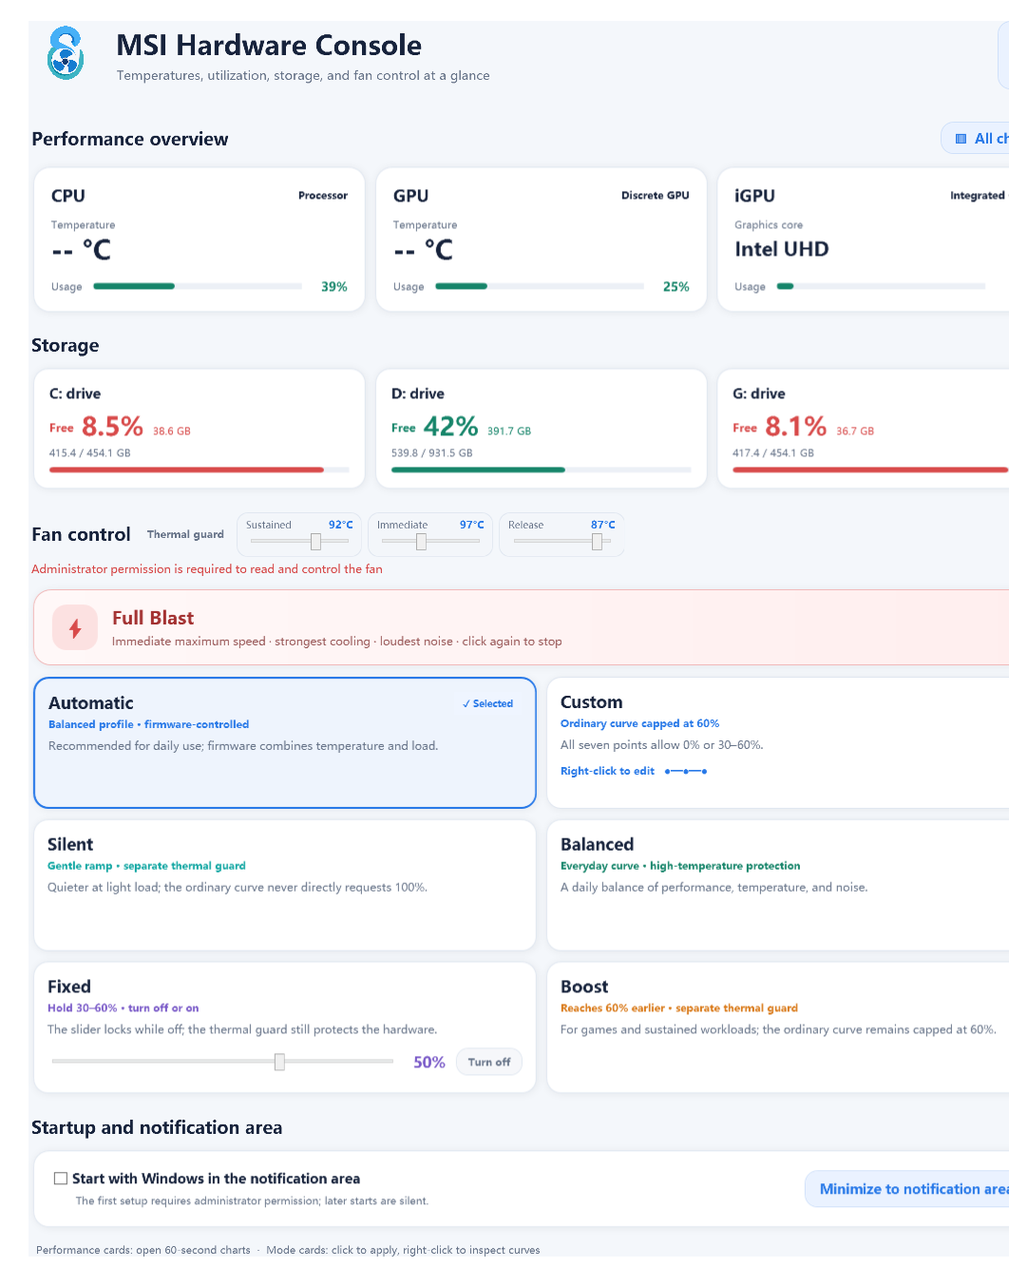
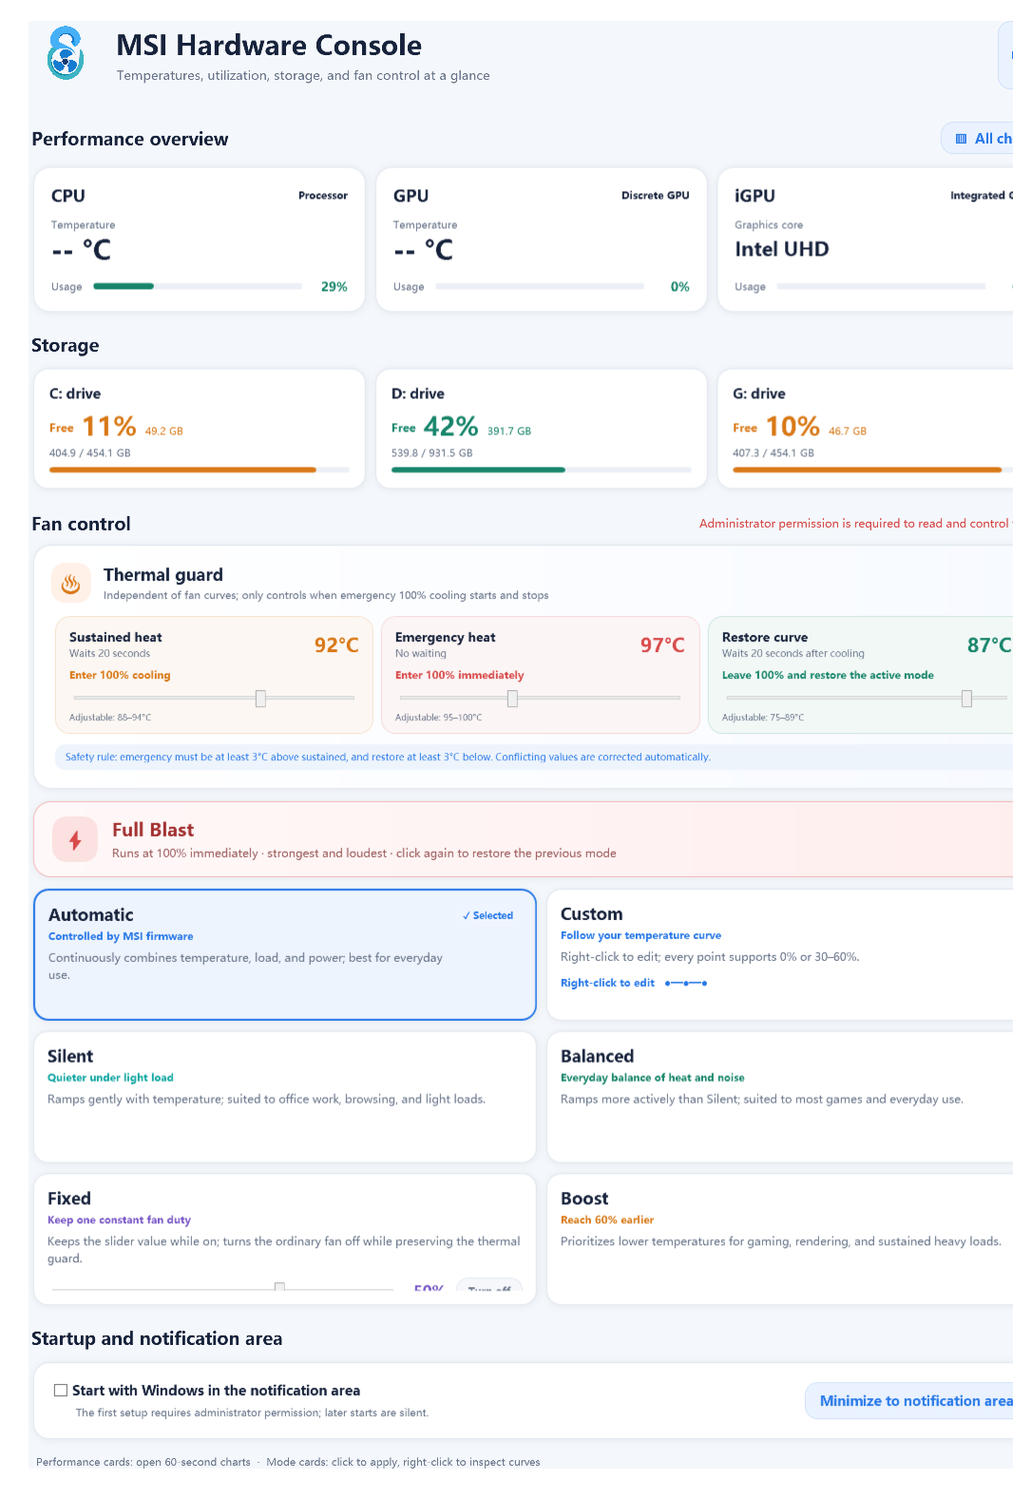
Redesign thermal guard panel

diff --git a/src/MainWindow.cs b/src/MainWindow.cs
@@ -206,6 +206,7 @@ namespace MsiHardwareConsole
             root.Children.Add(BuildStorageGrid());
             fanHeaderElement = BuildFanHeader();
             root.Children.Add(fanHeaderElement);
+            root.Children.Add(BuildProtectionSettingsCard());
             root.Children.Add(BuildBlastCard());
             root.Children.Add(BuildModeGrid());
             root.Children.Add(SectionHeader(T("Startup and notification area", "启动与托盘"), null));
@@ -483,66 +484,95 @@ namespace MsiHardwareConsole
         private FrameworkElement BuildFanHeader()
         {
             var grid = new Grid { Margin = new Thickness(3, 20, 3, 8) };
-            grid.ColumnDefinitions.Add(new ColumnDefinition { Width = GridLength.Auto });
             grid.ColumnDefinitions.Add(new ColumnDefinition { Width = new GridLength(1, GridUnitType.Star) });
-            grid.RowDefinitions.Add(new RowDefinition { Height = GridLength.Auto });
-            grid.RowDefinitions.Add(new RowDefinition { Height = GridLength.Auto });
-            grid.Children.Add(new TextBlock { Text = T("Fan control", "风扇控制"), FontSize = 18, FontWeight = FontWeights.SemiBold, Foreground = TextBrush, VerticalAlignment = VerticalAlignment.Center });
-            Grid protectionSettings = BuildProtectionTemperatureSettings();
-            Grid.SetColumn(protectionSettings, 1);
-            grid.Children.Add(protectionSettings);
-            fanStatus = new TextBlock { Text = T("Connecting to fan…", "正在连接风扇…"), FontSize = 12, Foreground = MutedBrush, HorizontalAlignment = HorizontalAlignment.Left, Margin = new Thickness(0, 5, 0, 0) };
-            Grid.SetRow(fanStatus, 1);
-            Grid.SetColumnSpan(fanStatus, 2);
+            grid.ColumnDefinitions.Add(new ColumnDefinition { Width = GridLength.Auto });
+            grid.Children.Add(new TextBlock { Text = T("Fan control", "风扇控制"), FontSize = 18, FontWeight = FontWeights.SemiBold, Foreground = TextBrush });
+            fanStatus = new TextBlock { Text = T("Connecting to fan…", "正在连接风扇…"), FontSize = 12, Foreground = MutedBrush, VerticalAlignment = VerticalAlignment.Center };
+            Grid.SetColumn(fanStatus, 1);
             grid.Children.Add(fanStatus);
             return grid;
         }
 
-        private Grid BuildProtectionTemperatureSettings()
+        private UIElement BuildProtectionSettingsCard()
         {
-            var host = new Grid { Margin = new Thickness(18, 0, 18, 0), VerticalAlignment = VerticalAlignment.Center };
-            host.ColumnDefinitions.Add(new ColumnDefinition { Width = GridLength.Auto });
-            host.ColumnDefinitions.Add(new ColumnDefinition { Width = new GridLength(1, GridUnitType.Star) });
-            host.Children.Add(new TextBlock
+            var card = Card(new Thickness(18), 18);
+            card.Margin = new Thickness(5, 3, 5, 8);
+            card.Background = new LinearGradientBrush(Color.FromRgb(255, 255, 255), Color.FromRgb(247, 250, 255), 0);
+            var root = new StackPanel();
+            var heading = new Grid();
+            heading.ColumnDefinitions.Add(new ColumnDefinition { Width = GridLength.Auto });
+            heading.ColumnDefinitions.Add(new ColumnDefinition { Width = new GridLength(1, GridUnitType.Star) });
+            var icon = new Border
             {
-                Text = T("Thermal guard", "高温保护"),
+                Width = 42,
+                Height = 42,
+                CornerRadius = new CornerRadius(14),
+                Background = MakeBrush("#FFF0E8"),
+                Margin = new Thickness(0, 0, 13, 0),
+                Child = new TextBlock { Text = "♨", FontSize = 21, Foreground = WarningBrush, HorizontalAlignment = HorizontalAlignment.Center, VerticalAlignment = VerticalAlignment.Center }
+            };
+            heading.Children.Add(icon);
+            var headingText = new StackPanel { VerticalAlignment = VerticalAlignment.Center };
+            headingText.Children.Add(new TextBlock { Text = T("Thermal guard", "高温保护"), FontSize = 17, FontWeight = FontWeights.SemiBold, Foreground = TextBrush });
+            headingText.Children.Add(new TextBlock
+            {
+                Text = T("Independent of fan curves; only controls when emergency 100% cooling starts and stops", "独立于风扇曲线，只决定何时进入或退出 100% 紧急散热"),
                 FontSize = 11,
-                FontWeight = FontWeights.SemiBold,
                 Foreground = MutedBrush,
-                VerticalAlignment = VerticalAlignment.Center,
-                Margin = new Thickness(0, 0, 9, 0)
+                Margin = new Thickness(0, 3, 0, 0)
             });
+            Grid.SetColumn(headingText, 1);
+            heading.Children.Add(headingText);
+            root.Children.Add(heading);
 
-            var controls = new StackPanel { Orientation = Orientation.Horizontal, HorizontalAlignment = HorizontalAlignment.Left };
+            var controls = new UniformGrid { Columns = 3, Margin = new Thickness(0, 14, 0, 0) };
             controls.Children.Add(BuildProtectionTemperatureControl(
-                T("Sustained", "持续开启"), 88, 94, settings.SustainedFullBlastTemperature,
+                T("Sustained heat", "持续高温"), T("Waits 20 seconds", "达到后等待 20 秒"), T("Enter 100% cooling", "进入 100% 散热"), T("Adjustable: 88–94°C", "可调范围 88–94°C"),
+                88, 94, settings.SustainedFullBlastTemperature, WarningBrush,
                 out sustainedProtectionSlider, out sustainedProtectionValue,
                 T("Enables 100% after this temperature is sustained for 20 seconds", "达到该温度并持续 20 秒后开启 100%")));
             controls.Children.Add(BuildProtectionTemperatureControl(
-                T("Immediate", "立即开启"), 95, 100, settings.EmergencyFullBlastTemperature,
+                T("Emergency heat", "紧急高温"), T("No waiting", "达到后无需等待"), T("Enter 100% immediately", "立即进入 100% 散热"), T("Adjustable: 95–100°C", "可调范围 95–100°C"),
+                95, 100, settings.EmergencyFullBlastTemperature, DangerBrush,
                 out emergencyProtectionSlider, out emergencyProtectionValue,
                 T("Enables 100% immediately at this temperature", "达到该温度后立即开启 100%")));
             controls.Children.Add(BuildProtectionTemperatureControl(
-                T("Release", "退出保护"), 75, 89, settings.FullBlastReleaseTemperature,
+                T("Restore curve", "恢复曲线"), T("Waits 20 seconds after cooling", "降温后等待 20 秒"), T("Leave 100% and restore the active mode", "退出 100% 并恢复当前模式"), T("Adjustable: 75–89°C", "可调范围 75–89°C"),
+                75, 89, settings.FullBlastReleaseTemperature, GoodBrush,
                 out releaseProtectionSlider, out releaseProtectionValue,
                 T("Restores the selected curve after staying below this temperature for 20 seconds", "降到该温度并持续 20 秒后恢复所选曲线")));
-            Grid.SetColumn(controls, 1);
-            host.Children.Add(controls);
+            root.Children.Add(controls);
+            var safetyNote = new Border
+            {
+                Background = MakeBrush("#EEF4FC"),
+                CornerRadius = new CornerRadius(10),
+                Padding = new Thickness(11, 7, 11, 7),
+                Margin = new Thickness(4, 10, 4, 0),
+                Child = new TextBlock
+                {
+                    Text = T(
+                        "Safety rule: emergency must be at least 3°C above sustained, and restore at least 3°C below. Conflicting values are corrected automatically.",
+                        "安全约束：紧急温度至少比持续温度高 3°C；恢复温度至少低 3°C。冲突的设置会自动修正。"),
+                    FontSize = 10,
+                    Foreground = AccentBrush
+                }
+            };
+            root.Children.Add(safetyNote);
             UpdateProtectionTemperatureLabels();
-            return host;
+            card.Child = root;
+            return card;
         }
 
-        private Border BuildProtectionTemperatureControl(string label, int minimum, int maximum, int value,
-            out Slider slider, out TextBlock valueText, string toolTip)
+        private Border BuildProtectionTemperatureControl(string title, string timing, string action, string range,
+            int minimum, int maximum, int value, Brush accent, out Slider slider, out TextBlock valueText, string toolTip)
         {
             var card = new Border
             {
-                Width = 132,
-                Margin = new Thickness(3, 0, 3, 0),
-                Padding = new Thickness(9, 5, 9, 5),
-                CornerRadius = new CornerRadius(11),
-                Background = MakeBrush("#F3F6FA"),
-                BorderBrush = CardBorderBrush,
+                Margin = new Thickness(4, 0, 4, 0),
+                Padding = new Thickness(14, 12, 14, 11),
+                CornerRadius = new CornerRadius(15),
+                Background = MakeTint(accent, 0.055),
+                BorderBrush = MakeTint(accent, 0.22),
                 BorderThickness = new Thickness(1),
                 ToolTip = toolTip
             };
@@ -550,11 +580,15 @@ namespace MsiHardwareConsole
             var heading = new Grid();
             heading.ColumnDefinitions.Add(new ColumnDefinition { Width = new GridLength(1, GridUnitType.Star) });
             heading.ColumnDefinitions.Add(new ColumnDefinition { Width = GridLength.Auto });
-            heading.Children.Add(new TextBlock { Text = label, FontSize = 10, Foreground = MutedBrush, VerticalAlignment = VerticalAlignment.Center });
-            valueText = new TextBlock { FontSize = 11, FontWeight = FontWeights.SemiBold, Foreground = AccentBrush, VerticalAlignment = VerticalAlignment.Center };
+            var labels = new StackPanel();
+            labels.Children.Add(new TextBlock { Text = title, FontSize = 13, FontWeight = FontWeights.SemiBold, Foreground = TextBrush });
+            labels.Children.Add(new TextBlock { Text = timing, FontSize = 10, Foreground = MutedBrush, Margin = new Thickness(0, 2, 0, 0) });
+            heading.Children.Add(labels);
+            valueText = new TextBlock { FontSize = 20, FontWeight = FontWeights.SemiBold, Foreground = accent, VerticalAlignment = VerticalAlignment.Center };
             Grid.SetColumn(valueText, 1);
             heading.Children.Add(valueText);
             content.Children.Add(heading);
+            content.Children.Add(new TextBlock { Text = action, FontSize = 11, Foreground = accent, FontWeight = FontWeights.SemiBold, Margin = new Thickness(0, 8, 0, 0) });
             slider = new Slider
             {
                 Minimum = minimum,
@@ -564,13 +598,14 @@ namespace MsiHardwareConsole
                 SmallChange = 1,
                 LargeChange = 2,
                 IsSnapToTickEnabled = true,
-                Margin = new Thickness(0, 2, 0, 0),
+                Margin = new Thickness(0, 9, 0, 0),
                 Cursor = Cursors.Hand
             };
             slider.ValueChanged += delegate { UpdateProtectionTemperatureLabels(); };
             slider.PreviewMouseLeftButtonUp += delegate { CommitProtectionTemperatureSettings(); };
             slider.KeyUp += delegate { CommitProtectionTemperatureSettings(); };
             content.Children.Add(slider);
+            content.Children.Add(new TextBlock { Text = range, FontSize = 9, Foreground = MutedBrush, Margin = new Thickness(0, 4, 0, 0) });
             card.Child = content;
             return card;
         }
@@ -608,7 +643,7 @@ namespace MsiHardwareConsole
             grid.ColumnDefinitions.Add(new ColumnDefinition());
             for (int i = 0; i < 3; i++) grid.RowDefinitions.Add(new RowDefinition { Height = GridLength.Auto });
 
-            AddModeCard(grid, "Automatic", T("Automatic", "自动"), T("Balanced profile · firmware-controlled", "均衡性能 · 固件自动调速"), T("Recommended for daily use; firmware combines temperature and load.", "日常首选，由固件综合温度与负载调整。"), AccentBrush, 0, 0, null);
+            AddModeCard(grid, "Automatic", T("Automatic", "自动"), T("Controlled by MSI firmware", "由 MSI 固件自行调速"), T("Continuously combines temperature, load, and power; best for everyday use.", "系统综合温度、负载与功耗实时调整，适合日常使用。"), AccentBrush, 0, 0, null);
 
             var fixedExtra = new StackPanel { Margin = new Thickness(0, 10, 0, 0) };
             var fixedLine = new Grid();
@@ -666,13 +701,13 @@ namespace MsiHardwareConsole
             fixedLine.Children.Add(fixedOffButton);
             fixedExtra.Children.Add(fixedLine);
             UpdateFixedControls();
-            AddModeCard(grid, "Fixed", T("Fixed", "固定"), T("Hold 30–60% · turn off or on", "持续保持 30–60% · 可关闭或开启"), T("The slider locks while off; the thermal guard still protects the hardware.", "关闭后滑条会锁定；高温时仍会按保护设置自动散热。"), PurpleBrush, 0, 2, fixedExtra);
+            AddModeCard(grid, "Fixed", T("Fixed", "固定"), T("Keep one constant fan duty", "始终保持同一转速"), T("Keeps the slider value while on; turns the ordinary fan off while preserving the thermal guard.", "开启时维持滑条设定；关闭时停止普通风扇，高温保护仍然有效。"), PurpleBrush, 0, 2, fixedExtra);
 
             var customExtra = new TextBlock { Text = T("Right-click to edit   ●━━●━━●", "右键编辑曲线   ●━━●━━●"), Foreground = AccentBrush, FontSize = 11, Margin = new Thickness(0, 10, 0, 0), FontWeight = FontWeights.SemiBold };
-            AddModeCard(grid, "Custom", T("Custom", "自定义"), T("Ordinary curve capped at 60%", "普通曲线最高 60%"), T("All seven points allow 0% or 30–60%.", "七个节点均可设为 0% 或 30–60%。"), AccentBrush, 1, 0, customExtra);
-            AddModeCard(grid, "Silent", T("Silent", "静音"), T("Gentle ramp · separate thermal guard", "温和升速 · 独立高温保护"), T("Quieter at light load; the ordinary curve never directly requests 100%.", "轻负载更安静，普通曲线不会直接触发全速。"), TealBrush, 0, 1, null);
-            AddModeCard(grid, "Balanced", T("Balanced", "均衡"), T("Everyday curve · high-temperature protection", "日用曲线 · 高温保护"), T("A daily balance of performance, temperature, and noise.", "性能、温度和噪音的日常折中。"), GoodBrush, 1, 1, null);
-            AddModeCard(grid, "Boost", T("Boost", "强冷"), T("Reaches 60% earlier · separate thermal guard", "更早达到 60% · 独立高温保护"), T("For games and sustained workloads; the ordinary curve remains capped at 60%.", "适合游戏和持续负载，普通曲线最高 60%。"), WarningBrush, 1, 2, null);
+            AddModeCard(grid, "Custom", T("Custom", "自定义"), T("Follow your temperature curve", "按你设置的温度曲线调速"), T("Right-click to edit; every point supports 0% or 30–60%.", "右键打开曲线编辑器；每个节点可设置为 0% 或 30–60%。"), AccentBrush, 1, 0, customExtra);
+            AddModeCard(grid, "Silent", T("Silent", "静音"), T("Quieter under light load", "低负载时更安静"), T("Ramps gently with temperature; suited to office work, browsing, and light loads.", "风扇随温度缓慢提升，适合办公、网页和轻负载。"), TealBrush, 0, 1, null);
+            AddModeCard(grid, "Balanced", T("Balanced", "均衡"), T("Everyday balance of heat and noise", "温度与噪音的日常平衡"), T("Ramps more actively than Silent; suited to most games and everyday use.", "升速比静音更积极，适合多数游戏和常规使用。"), GoodBrush, 1, 1, null);
+            AddModeCard(grid, "Boost", T("Boost", "强冷"), T("Reach 60% earlier", "更早提升到 60%"), T("Prioritizes lower temperatures for gaming, rendering, and sustained heavy loads.", "优先压低温度，适合游戏、渲染与长时间高负载。"), WarningBrush, 1, 2, null);
             return grid;
         }
 
@@ -744,7 +779,7 @@ namespace MsiHardwareConsole
             grid.Children.Add(icon);
             var text = new StackPanel { VerticalAlignment = VerticalAlignment.Center };
             text.Children.Add(new TextBlock { Text = T("Full Blast", "狂暴散热"), FontSize = 19, FontWeight = FontWeights.SemiBold, Foreground = MakeBrush("#A33131") });
-            text.Children.Add(new TextBlock { Text = T("Immediate maximum speed · strongest cooling · loudest noise · click again to stop", "立即全速运转 · 散热最强 · 噪音最大 · 再次点击关闭"), FontSize = 12, Foreground = MakeBrush("#9B5A5A"), Margin = new Thickness(0, 5, 0, 0) });
+            text.Children.Add(new TextBlock { Text = T("Runs at 100% immediately · strongest and loudest · click again to restore the previous mode", "立即以 100% 运行 · 最强散热也最响 · 再次点击恢复此前模式"), FontSize = 12, Foreground = MakeBrush("#9B5A5A"), Margin = new Thickness(0, 5, 0, 0) });
             Grid.SetColumn(text, 1);
             grid.Children.Add(text);
             blastCard.Child = grid;

diff --git a/src/Program.cs b/src/Program.cs
@@ -9,8 +9,8 @@ using System.Windows.Threading;
 [assembly: AssemblyProduct("MSI Hardware Console")]
 [assembly: AssemblyDescription("Unofficial MSI laptop hardware monitor and fan controller")]
 [assembly: AssemblyCompany("Acblade")]
-[assembly: AssemblyVersion("0.1.3.0")]
-[assembly: AssemblyFileVersion("0.1.3.0")]
+[assembly: AssemblyVersion("0.1.4.0")]
+[assembly: AssemblyFileVersion("0.1.4.0")]
 
 namespace MsiHardwareConsole
 {

diff --git a/RELEASE_NOTES.md b/RELEASE_NOTES.md
@@ -1,31 +1,31 @@
-# MSI Hardware Console 0.1.3
+# MSI Hardware Console 0.1.4
 
 ## English
 
-This release separates ordinary fan curves from emergency 100% cooling and makes the thermal guard configurable.
+This release refines the thermal-guard layout and fan-mode explanations introduced in 0.1.3.
 
 Highlights:
 
-- Ordinary Silent, Balanced, Boost, Fixed, and Custom curves are capped at 60%
-- 100% fan speed is reserved for manual Full Blast or the independent thermal guard
-- The Fan control heading now includes adjustable sustained, immediate, and release temperatures
-- Safe ranges are enforced, with at least 3°C between the sustained threshold and the other two thresholds
-- Fan-curve overlays now focus only on their temperature-to-duty curves
-- The verified hardware allowlist is unchanged
+- Thermal-guard controls now live in a dedicated panel below the Fan control heading
+- Sustained heat, emergency heat, and curve restoration each show their timing, action, safe range, and current temperature clearly
+- The panel explains the automatic 3°C safety separation without mixing it into fan-curve overlays
+- Automatic, Custom, Silent, Balanced, Fixed, and Boost descriptions now explain their real behavior and recommended workloads
+- Full Blast now clearly states that it runs at 100% and restores the previous mode when clicked again
+- English and Simplified Chinese screenshots and documentation are updated
 
-Defaults are 92°C for 20 seconds, 97°C immediately, and 87°C for 20 seconds to release. The executable is unsigned; verify the attached SHA-256 file before running it.
+The verified hardware allowlist and fan-control safety limits are unchanged. The executable is unsigned; verify the attached SHA-256 file before running it.
 
 ## 中文
 
-此版本把普通风扇曲线与紧急 100% 散热分离，并允许用户调整高温保护温度。
+此版本优化了 0.1.3 新增的高温保护布局与风扇模式说明。
 
 主要内容：
 
-- 静音、均衡、强冷、固定和自定义的普通曲线最高为 60%
-- 100% 只保留给手动“狂暴散热”或独立高温保护
-- “风扇控制”标题旁新增持续触发、立即触发和退出保护三个温度设置
-- 设置带有安全范围，并自动保证持续阈值与另外两个阈值至少相差 3°C
-- 风扇曲线浮层只显示温度—转速曲线，不再混入高温保护说明
-- 已验证硬件白名单没有变化
+- 高温保护设置现在位于“风扇控制”标题下方的独立板块中
+- “持续高温”“紧急高温”“恢复曲线”分别清楚显示等待时间、执行动作、安全范围和当前温度
+- 独立板块会说明自动保持 3°C 安全间隔的规则，风扇曲线浮层仍只显示曲线
+- 自动、自定义、静音、均衡、固定、强冷的说明改为明确描述实际行为和适用场景
+- 狂暴散热明确说明会立即以 100% 运行，再次点击恢复此前模式
+- 中英文截图与文档同步更新
 
-默认值为：92°C 持续 20 秒开启、97°C 立即开启、降到 87°C 持续 20 秒退出。当前可执行文件没有代码签名，运行前请核对随 Release 提供的 SHA-256。
+已验证硬件白名单和风扇控制安全限制没有变化。当前可执行文件没有代码签名，运行前请核对随 Release 提供的 SHA-256。

diff --git a/README.md b/README.md
@@ -5,7 +5,7 @@
 An unofficial, lightweight Windows dashboard and MSI laptop fan controller. It shows CPU/GPU utilization and temperatures, storage usage, fan RPM, fan modes, and editable temperature-to-fan curves without requiring MSI Center.
 
 > [!WARNING]
-> Fan control writes to firmware through MSI's ACPI WMI interface. Hardware support is model-specific. Version 0.1.3 enables fan writes only on the verified MSI Cyborg 15 A13VE with WMI interface 2.8; other systems run in monitoring-only mode.
+> Fan control writes to firmware through MSI's ACPI WMI interface. Hardware support is model-specific. Version 0.1.4 enables fan writes only on the verified MSI Cyborg 15 A13VE with WMI interface 2.8; other systems run in monitoring-only mode.
 
 ![English dashboard](docs/images/dashboard-en.png)
 
@@ -46,7 +46,7 @@ See [COMPATIBILITY.md](docs/COMPATIBILITY.md) before requesting support for anot
 
 ## Download and use
 
-1. Download `MSI-Hardware-Console-v0.1.3-win-x64.zip` from GitHub Releases.
+1. Download `MSI-Hardware-Console-v0.1.4-win-x64.zip` from GitHub Releases.
 2. Extract the entire archive.
 3. Run `MSIHardwareConsole.exe` and approve the Windows administrator prompt.
 4. The public build starts in English. Click **中文** in the upper-right corner to switch languages.
@@ -61,7 +61,7 @@ The executable is currently unsigned, so Windows SmartScreen may show an unknown
 - `Silent`, `Balanced`, and `Boost` write verified seven-point curves.
 - `Fixed` holds a normal fan duty from 30–60%. Its button toggles the fan off and back on; the slider is disabled while off and restores the previous duty when enabled.
 - All seven `Custom` points allow 0% or 30–60%; ordinary curves never request 100%.
-- Three thermal-guard temperatures are adjustable beside the **Fan control** heading: sustained trigger (88–94°C, 20 seconds), immediate trigger (95–100°C), and release threshold (75–89°C, 20 seconds).
+- A dedicated **Thermal guard** panel below **Fan control** contains sustained trigger (88–94°C, 20 seconds), immediate trigger (95–100°C), and release threshold (75–89°C, 20 seconds).
 - Safety normalization keeps the immediate trigger at least 3°C above the sustained trigger and the release threshold at least 3°C below it.
 - `Full Blast` directly enables the firmware's maximum-speed bit.
 
@@ -116,6 +116,6 @@ MSI and MSI Center are trademarks of Micro-Star INT'L CO., LTD. This community p
 
 MSI Hardware Console 是一个非官方的轻量 Windows 硬件面板，可显示 CPU/GPU 占用率与温度、硬盘空间、风扇转速，并在兼容机型上直接设置风扇模式和温度曲线，不依赖 MSI Center。
 
-公开版默认英文，可在右上角即时切换简体中文。0.1.3 版本只确认支持 **MSI Cyborg 15 A13VE、WMI 2.8、单风扇**；其他电脑默认锁定风扇写入，仅提供监控，避免在未验证固件上冒险操作。
+公开版默认英文，可在右上角即时切换简体中文。0.1.4 版本只确认支持 **MSI Cyborg 15 A13VE、WMI 2.8、单风扇**；其他电脑默认锁定风扇写入，仅提供监控，避免在未验证固件上冒险操作。
 
 完整中文说明见 [README.zh-CN.md](README.zh-CN.md)。

diff --git a/CHANGELOG.md b/CHANGELOG.md
@@ -1,5 +1,11 @@
 # Changelog
 
+## 0.1.4
+
+- Moved thermal-guard controls into a dedicated panel below Fan control
+- Redesigned the three temperature controls with clearer timing, actions, ranges, and visual hierarchy
+- Rewrote all fan-mode descriptions around their actual behavior and recommended use
+
 ## 0.1.3
 
 - Ordinary fan curves are capped at 60%; 100% is reserved for manual Full Blast or the independent thermal guard
